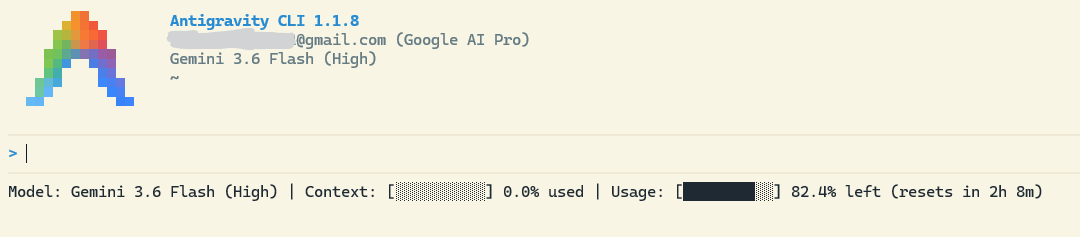
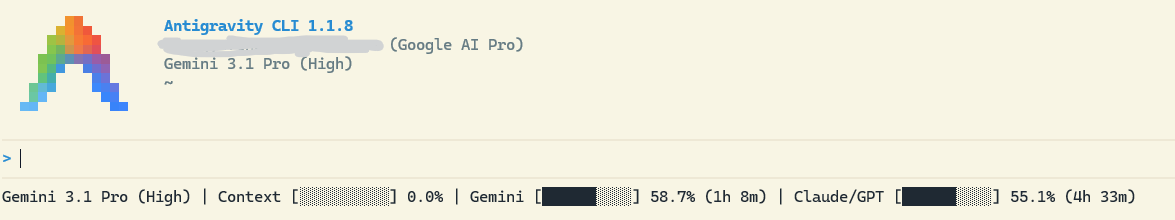
docs: 更新 README 及最新真实终端运行效果截图 (preview.png)

diff --git a/README.md b/README.md
@@ -16,11 +16,12 @@ Unlike other HUD plugins that rely on specialized Nerd Fonts (which often cause 
 
 ## Features
 
-- **Zero Dependency & Zero Font Issues**: Uses standard ASCII and cross-platform Unicode blocks that render cleanly without Nerd Fonts or encoding glitches.
-- **Near-Zero Latency (~10ms)**: Parses raw JSON directly from stdin provided by Antigravity CLI without making external network requests.
-- **Dual Directional Indicators**:
-  - **Context Window**: Forward progress (`used %`) indicating memory consumption in the current session.
-  - **Usage / 5-Hour Quota**: Reverse progress (`left %`) indicating remaining rate limit quota with live countdown reset timer.
+- **Zero Dependency & Zero Font Issues**: Renders standard Unicode blocks (`█` & `░`) cleanly across all platforms without requiring Nerd Fonts.
+- **Zero-Latency Real-Time Sync**: Combines local daemon HTTP probing with Min-Quota Arbitration to bypass backend cache delays, updating quotas instantly after every prompt.
+- **Multi-Pool Quota Tracking**:
+  - **Gemini Pool**: Tracks remaining quota percentage and reset countdown for Gemini models.
+  - **Claude / GPT (3P) Pool**: Tracks combined remaining quota for 3rd-party models.
+- **Responsive Liquid Layout**: Automatically scales progress bar lengths (10 / 8 / 6 / 4 blocks) and truncates labels based on active terminal width to prevent line wrapping.
 - **Multi-Platform Support**: Built for Windows (PowerShell / CMD), macOS, and Linux.
 
 ---

diff --git a/README.zh-CN.md b/README.zh-CN.md
@@ -16,11 +16,12 @@
 
 ## 核心特性
 
-- **零依赖与零乱码**：使用通用 Unicode 块，无需安装任何第三方 Nerd 字体，彻底杜绝乱码问题。
-- **极致性能 (~10ms)**：直接通过 `stdin` 读取并解析 AGY CLI 内存传输的 JSON 数据，零网络请求与延迟。
-- **双向逻辑指示器**：
-  - **Context (上下文窗口)**：正向计算 (`used %`)，直观显示当前 Session 已消耗的记忆比例。
-  - **Usage (5小时配额)**：反向计算 (`left %`)，清晰展示剩余血量与精确的重置倒计时。
+- **零依赖与零乱码**：使用通用 Unicode 块（`█` 与 `░`），无需安装任何第三方 Nerd 字体，彻底杜绝终端乱码。
+- **0 延迟秒刷 (Min-Quota 仲裁)**：结合本地守护进程 HTTP 直连与 `stdin` 动态比对，自动抓取并展示最新配额，杜绝官方后端缓存延迟。
+- **多模型配额池独立监控**：
+  - **Gemini 池**：实时追踪 Gemini 全系模型的剩余百分比与重置倒计时。
+  - **Claude / GPT (3P) 池**：独立监控第三方高级模型的合并共享配额。
+- **响应式液态排版**：根据终端实际宽度自动伸缩进度条长度（10 / 8 / 6 / 4 格），并在窄屏下自动缩写标签，永不乱行或越界。
 - **全平台兼容**：完美支持 Windows (PowerShell / CMD)、macOS 与 Linux。
 
 ---
